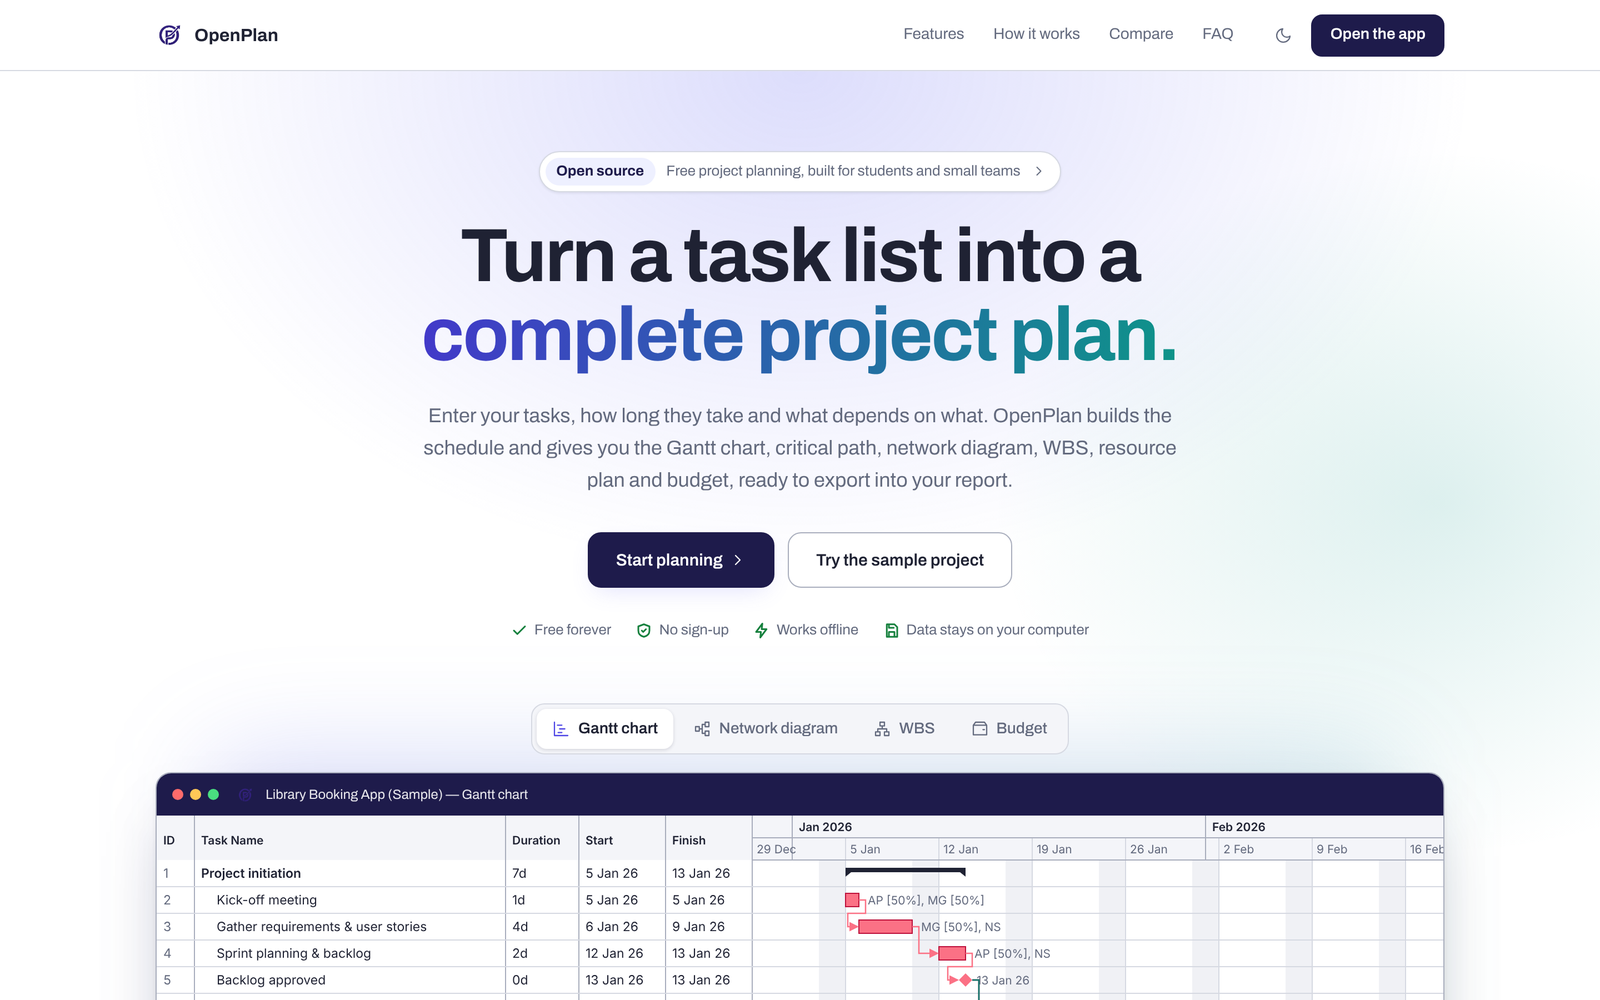
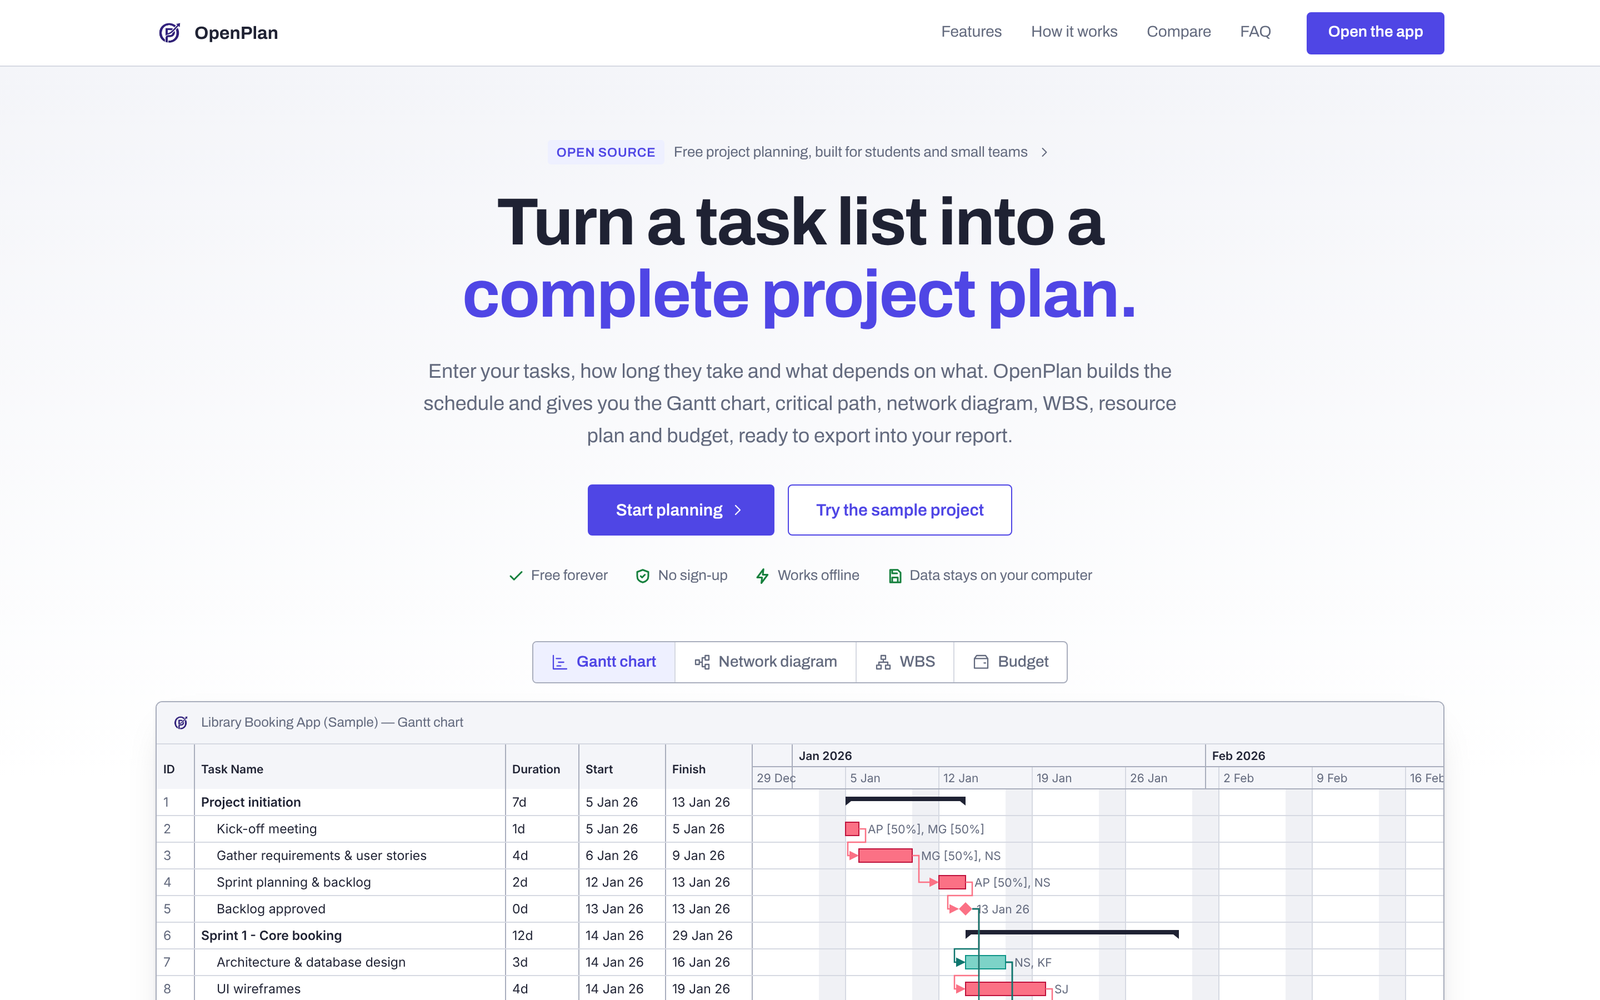
feat: make the landing page a flat, light, professional design
- The landing page is always light. It carries its own copy of the light
  colour tokens, so a saved dark theme no longer reaches it. The theme
  toggle is removed from the landing nav (the app keeps its dark mode).
- Flatter, more corporate style: solid accent buttons with small radii,
  no gradient headline, no glow blobs, no pill badge, no dark title bar
  or dots on the preview window, and no dark call-to-action band.
- Cards hover with a border colour only; FAQ is one bordered list.
- Hide the section links on narrow screens and stack the top label.
- Refresh the README landing screenshot and the social card.

diff --git a/src/styles.css b/src/styles.css
@@ -553,73 +553,121 @@ kbd { font: var(--fs-xs) Consolas, monospace; padding: 0 4px; border: 1px solid 
   .bs-body { padding: 16px; }
 }
 /* ---------- landing page ---------- */
+/* The landing page is always light. It carries its own copy of the light colour tokens, so a dark app theme never reaches it. */
 .qat-btn.home { width: auto; padding: 0 2px; }
 .landing {
-  --lp-w: 1160px; --lp-pad: max(20px, calc((100% - var(--lp-w)) / 2));
-  --lp-r: 14px; --lp-glow: rgba(99, 102, 241, 0.22);
+  --brand: #1e1b4b;
+  --brand-fg: #1e1b4b;
+  --focus: var(--brand-fg);
+  --brand-dark: #13112f;
+  --brand-light: var(--accent-soft);
+  --brand-mid: var(--hover-strong);
+  --on-brand: #ffffff;
+  --title-text: var(--on-brand);
+  --bg: #ffffff;
+  --app: #e7e9ef;
+  --ribbon: #f5f6fa;
+  --surface: #ffffff;
+  --surface-2: #f4f5f9;
+  --surface-3: #e9ebf1;
+  --border: #d6d9e2;
+  --border-strong: #a9aebd;
+  --grid-line: #e0e3ea;
+  --text: #1f2233;
+  --text-muted: #636a7e;
+  --accent: #4f46e5;
+  --accent-hover: #4338ca;
+  --accent-soft: #eef0ff;
+  --accent-text: #ffffff;
+  --hover: #eef0ff;
+  --hover-strong: #dcdffb;
+  --pressed: #c7cbf7;
+  --sel-row: #e8eaff;
+  --bar: #7dd3c8;
+  --bar-edge: #0f9488;
+  --bar-progress: #115e59;
+  --summary: var(--text);
+  --milestone: var(--text);
+  --critical: #fb7185;
+  --critical-edge: #be123c;
+  --critical-soft: #ffe4e8;
+  --link: #0f766e;
+  --baseline: #a3a8b8;
+  --weekend: #f0f1f5;
+  --good: #15803d;
+  --good-soft: #dcfce7;
+  --warn: #b45309;
+  --warn-soft: #fef3c7;
+  --c1: var(--accent);
+  --c2: #0d9488;
+  --c3: #f59e0b;
+  --c4: #e11d48;
+  --shadow: 0 1px 2px rgba(15, 17, 40, 0.08);
+  --shadow-lg: 0 6px 18px rgba(15, 17, 40, 0.22);
+  --tl-0-bg: #e0e3ff; --tl-0-edge: #a5acf5; --tl-0-text: #1e1b4b;
+  --tl-1-bg: #ccf2ec; --tl-1-edge: #7dd3c8; --tl-1-text: #134e4a;
+  --tl-2-bg: #fde6c4; --tl-2-edge: #f5b35a; --tl-2-text: #5a3408;
+  --today: #f0a030;
+  --group-row: #fff2cc;
+  --heat-1: #e8eaff; --heat-2: #c9cdfb; --heat-3: #a5acf5; --heat-over: #ffe0e6; --heat-over-text: #9f1239;
+  --overalloc: #e36c09;
+  --fs-2xs: 10.5px; --fs-xs: 11px; --fs-sm: 11.5px; --fs-base: 12px; --fs-md: 13px; --fs-lg: 14px;
+  --fs-xl: 15px; --fs-2xl: 16px; --fs-3xl: 18px; --fs-4xl: 22px; --fs-5xl: 28px;
+  --row: 24px;
+  --hdr: 40px;
+  --font: "Segoe UI", "Segoe UI Web (West European)", Tahoma, Arial, sans-serif;
+  --lp-w: 1160px; --lp-pad: max(20px, calc((100% - var(--lp-w)) / 2)); --lp-r: 6px;
+  color-scheme: light;
   flex: 1; min-height: 0; overflow-y: auto; background: var(--bg); color: var(--text);
   font: var(--fs-xl)/1.6 "Archivo Variable", "Segoe UI", system-ui, sans-serif; -webkit-font-smoothing: antialiased;
   scroll-behavior: smooth;
 }
-:root[data-theme="dark"] .landing { --lp-glow: rgba(139, 133, 255, 0.2); }
 .landing button { font-family: inherit; }
 .landing h1, .landing h2, .landing h3 { margin: 0; color: var(--text); font-weight: 600; text-wrap: balance; }
-.landing h1, .landing h2 { font-weight: 700; letter-spacing: -0.025em; }
+.landing h1, .landing h2 { font-weight: 700; letter-spacing: -0.02em; }
 .landing .sr { position: absolute; width: 1px; height: 1px; overflow: hidden; clip-path: inset(50%); white-space: nowrap; }
 .lp-label { margin: 0; font-size: var(--fs-md); font-weight: 600; line-height: 1.4; letter-spacing: 0.06em; text-transform: uppercase; color: var(--accent); }
 
 /* navigation */
-.lp-nav { position: sticky; top: 0; z-index: 5; display: flex; align-items: center; gap: 8px; height: 64px; padding: 0 var(--lp-pad); background: color-mix(in srgb, var(--bg) 82%, transparent); backdrop-filter: blur(12px); -webkit-backdrop-filter: blur(12px); border-bottom: 1px solid var(--border); }
+.lp-nav { position: sticky; top: 0; z-index: 5; display: flex; align-items: center; gap: 8px; height: 60px; padding: 0 var(--lp-pad); background: var(--bg); border-bottom: 1px solid var(--border); }
 .lp-brand { display: flex; align-items: center; gap: 9px; font-weight: 700; font-size: var(--fs-2xl); color: var(--text); text-decoration: none; margin-right: auto; }
-.lp-links { display: flex; align-items: center; gap: 2px; margin-right: 8px; }
-.lp-links button { border: 0; background: none; padding: 7px 12px; border-radius: 8px; font-size: var(--fs-lg); color: var(--text-muted); cursor: pointer; transition: color 0.15s, background 0.15s; }
+.lp-links { display: flex; align-items: center; gap: 2px; margin-right: 12px; }
+.lp-links button { border: 0; background: none; padding: 7px 12px; border-radius: 4px; font-size: var(--fs-lg); color: var(--text-muted); cursor: pointer; transition: color 0.15s, background 0.15s; }
 .lp-links button:hover { color: var(--text); background: var(--surface-2); }
-.lp-theme { width: 34px; height: 34px; border: 0; border-radius: 8px; background: none; color: var(--text-muted); cursor: pointer; display: grid; place-items: center; }
-.lp-theme:hover { background: var(--surface-2); color: var(--text); }
 
 /* buttons */
-.lp-btn { display: inline-flex; align-items: center; justify-content: center; gap: 6px; height: 38px; padding: 0 16px; border: 1px solid var(--brand); border-radius: 10px; background: var(--brand); color: var(--on-brand); font-size: var(--fs-lg); font-weight: 600; cursor: pointer; transition: background 0.15s, transform 0.15s, box-shadow 0.15s; }
-.lp-btn:hover { background: var(--brand-dark); }
-:root[data-theme="dark"] .lp-btn { background: var(--accent); border-color: var(--accent); color: var(--accent-text); }
-:root[data-theme="dark"] .lp-btn:hover { background: var(--accent-hover); }
-.lp-btn.lg { height: 50px; padding: 0 24px; font-size: var(--fs-xl); border-radius: 12px; box-shadow: 0 8px 22px -8px var(--lp-glow); }
-.lp-btn.lg:hover { transform: translateY(-1px); }
-.lp-btn.ghost { background: var(--surface); color: var(--text); border-color: var(--border-strong); box-shadow: none; }
-.lp-btn.ghost:hover { background: var(--surface-2); }
-:root[data-theme="dark"] .lp-btn.ghost { background: var(--surface); color: var(--text); border-color: var(--border-strong); }
+.lp-btn { display: inline-flex; align-items: center; justify-content: center; gap: 6px; height: 38px; padding: 0 18px; border: 1px solid var(--accent); border-radius: 4px; background: var(--accent); color: var(--accent-text); font-size: var(--fs-lg); font-weight: 600; cursor: pointer; transition: background 0.15s, border-color 0.15s; }
+.lp-btn:hover { background: var(--accent-hover); border-color: var(--accent-hover); }
+.lp-btn.lg { height: 46px; padding: 0 24px; font-size: var(--fs-xl); }
+.lp-btn.ghost { background: var(--surface); color: var(--accent); border-color: var(--accent); }
+.lp-btn.ghost:hover { background: var(--accent-soft); }
+.lp-btn:focus-visible, .lp-links button:focus-visible, .lp-tabs button:focus-visible, .lp-faq summary:focus-visible { outline: 2px solid var(--accent); outline-offset: 2px; }
 .lp-actions { display: flex; flex-wrap: wrap; align-items: center; gap: 12px; }
 .lp-actions.center { justify-content: center; }
 
 /* hero */
-.lp-hero { position: relative; padding: 72px var(--lp-pad) 0; text-align: center; isolation: isolate;
-  background: radial-gradient(60% 50% at 50% 0%, var(--lp-glow), transparent 70%), radial-gradient(40% 35% at 90% 30%, color-mix(in srgb, var(--c2) 14%, transparent), transparent 70%); }
-.lp-pill { display: inline-flex; align-items: center; gap: 10px; max-width: 100%; padding: 5px 12px 5px 5px; border: 1px solid var(--border); border-radius: 999px; background: var(--surface); font-size: var(--fs-md); color: var(--text-muted); text-decoration: none; box-shadow: var(--shadow); transition: border-color 0.15s; }
-.lp-pill:hover { border-color: var(--accent); }
-.lp-pill span { flex: none; white-space: nowrap; padding: 2px 10px; border-radius: 999px; background: var(--accent-soft); color: var(--accent); font-weight: 700; }
-:root[data-theme="light"] .lp-pill span, :root:not([data-theme]) .lp-pill span { color: var(--brand); }
+.lp-hero { position: relative; padding: 64px var(--lp-pad) 0; text-align: center; background: linear-gradient(180deg, var(--surface-2), var(--bg) 640px); }
+.lp-pill { display: inline-flex; align-items: center; gap: 8px; max-width: 100%; font-size: var(--fs-md); color: var(--text-muted); text-decoration: none; }
+.lp-pill:hover { color: var(--text); }
+.lp-pill span { flex: none; white-space: nowrap; padding: 2px 8px; border-radius: 3px; background: var(--accent-soft); color: var(--accent); font-weight: 600; letter-spacing: 0.04em; text-transform: uppercase; font-size: var(--fs-sm); }
 .lp-pill svg.i { width: 14px; height: 14px; flex: none; }
-.lp-hero h1 { max-width: 900px; margin: 22px auto 0; font-size: clamp(38px, 6vw, 68px); line-height: 1.04; }
-.lp-hero h1 em { font-style: normal; background: linear-gradient(100deg, var(--accent), var(--c2)); -webkit-background-clip: text; background-clip: text; color: transparent; }
-:root[data-theme="light"] .lp-hero h1 em, :root:not([data-theme]) .lp-hero h1 em { background-image: linear-gradient(100deg, #4338ca, #0d9488); }
-.lp-lede { margin: 24px auto 32px; max-width: 680px; font-size: var(--fs-3xl); line-height: 1.6; color: var(--text-muted); }
-.lp-trust { list-style: none; margin: 28px 0 0; padding: 0; display: flex; flex-wrap: wrap; justify-content: center; gap: 8px 22px; font-size: var(--fs-md); color: var(--text-muted); }
+.lp-hero h1 { max-width: 880px; margin: 20px auto 0; font-size: clamp(36px, 5.4vw, 60px); line-height: 1.08; }
+.lp-hero h1 em { font-style: normal; color: var(--accent); }
+.lp-lede { margin: 22px auto 30px; max-width: 680px; font-size: var(--fs-3xl); line-height: 1.6; color: var(--text-muted); }
+.lp-trust { list-style: none; margin: 26px 0 0; padding: 0; display: flex; flex-wrap: wrap; justify-content: center; gap: 8px 24px; font-size: var(--fs-md); color: var(--text-muted); }
 .lp-trust li { display: inline-flex; align-items: center; gap: 6px; }
 .lp-trust svg.i { width: 15px; height: 15px; color: var(--good); stroke-width: 2.4; }
 
-.lp-stage { position: relative; margin-top: 56px; text-align: left; }
-.lp-stage::before { content: ""; position: absolute; inset: 8% 4% -6%; z-index: -1; border-radius: 40px; background: linear-gradient(135deg, var(--lp-glow), color-mix(in srgb, var(--c2) 22%, transparent)); filter: blur(46px); }
+.lp-stage { position: relative; margin-top: 48px; text-align: center; }
 .lp-preview { margin: 0; }
-.lp-tabs { display: inline-flex; flex-wrap: wrap; gap: 4px; padding: 4px; margin-bottom: 16px; border: 1px solid var(--border); border-radius: 12px; background: var(--surface-2); }
-.lp-stage { text-align: center; }
-.lp-tabs button { display: inline-flex; align-items: center; gap: 7px; height: 36px; padding: 0 14px; border: 0; border-radius: 9px; background: none; color: var(--text-muted); font-size: var(--fs-lg); font-weight: 500; cursor: pointer; transition: background 0.15s, color 0.15s; }
-.lp-tabs button:hover { color: var(--text); }
-.lp-tabs button.on { background: var(--surface); color: var(--text); font-weight: 600; box-shadow: 0 1px 3px rgba(15, 17, 40, 0.14); }
+.lp-tabs { display: inline-flex; flex-wrap: wrap; gap: 0; margin-bottom: 16px; border: 1px solid var(--border-strong); border-radius: 4px; background: var(--surface); overflow: hidden; }
+.lp-tabs button { display: inline-flex; align-items: center; gap: 7px; height: 36px; padding: 0 16px; border: 0; border-left: 1px solid var(--border); background: none; color: var(--text-muted); font-size: var(--fs-lg); font-weight: 500; cursor: pointer; transition: background 0.15s, color 0.15s; }
+.lp-tabs button:first-child { border-left: 0; }
+.lp-tabs button:hover { color: var(--text); background: var(--surface-2); }
+.lp-tabs button.on { background: var(--accent-soft); color: var(--accent); font-weight: 600; }
 .lp-tabs button.on svg.i { color: var(--accent); }
-.lp-shot { text-align: left; border: 1px solid var(--border-strong); border-radius: var(--lp-r); overflow: hidden; background: var(--surface); box-shadow: 0 2px 4px rgba(15, 17, 40, 0.06), 0 30px 60px -24px rgba(15, 17, 40, 0.35); }
-.lp-shot-bar { display: flex; align-items: center; gap: 10px; height: 38px; padding: 0 14px; background: var(--brand); color: rgba(255, 255, 255, 0.9); font-size: var(--fs-base); }
-.lp-dots { display: inline-flex; gap: 6px; margin-right: 6px; }
-.lp-dots i { width: 10px; height: 10px; border-radius: 50%; background: rgba(255, 255, 255, 0.28); }
-.lp-dots i:nth-child(1) { background: #ff6b6b; } .lp-dots i:nth-child(2) { background: #ffc857; } .lp-dots i:nth-child(3) { background: #4ade80; }
+.lp-shot { text-align: left; border: 1px solid var(--border-strong); border-radius: var(--lp-r); overflow: hidden; background: var(--surface); box-shadow: 0 1px 3px rgba(20, 22, 40, 0.08), 0 16px 36px -18px rgba(20, 22, 40, 0.25); }
+.lp-shot-bar { display: flex; align-items: center; gap: 10px; height: 38px; padding: 0 14px; background: var(--surface-2); border-bottom: 1px solid var(--border); color: var(--text-muted); font-size: var(--fs-base); }
 .lp-shot-title { overflow: hidden; text-overflow: ellipsis; white-space: nowrap; }
 .lp-shot-body { height: 420px; overflow: hidden; position: relative; display: flex; align-items: center; justify-content: center; padding: 20px; }
 .lp-shot-body.gantt { display: block; padding: 0; }
@@ -628,23 +676,21 @@ kbd { font: var(--fs-xs) Consolas, monospace; padding: 0 4px; border: 1px solid 
 .lp-shot-body:not(.gantt) svg { max-width: 100%; max-height: 100%; width: auto; height: auto; }
 .lp-caption { margin: 14px 0 0; font-size: var(--fs-md); color: var(--text-muted); }
 
-.lp-stats { list-style: none; margin: 56px 0 0; padding: 0; display: grid; grid-template-columns: repeat(4, minmax(0, 1fr)); border: 1px solid var(--border); border-radius: var(--lp-r); background: var(--surface); text-align: center; }
+.lp-stats { list-style: none; margin: 48px 0 0; padding: 0; display: grid; grid-template-columns: repeat(4, minmax(0, 1fr)); border: 1px solid var(--border); border-radius: var(--lp-r); background: var(--surface); text-align: center; }
 .lp-stats li { padding: 22px 12px; }
 .lp-stats li + li { border-left: 1px solid var(--border); }
-.lp-stats b { display: block; font-size: 38px; font-weight: 700; line-height: 1; letter-spacing: -0.02em; color: var(--accent); font-variant-numeric: tabular-nums; }
-:root[data-theme="light"] .lp-stats b, :root:not([data-theme]) .lp-stats b { color: var(--brand); }
+.lp-stats b { display: block; font-size: 36px; font-weight: 700; line-height: 1; letter-spacing: -0.02em; color: var(--accent); font-variant-numeric: tabular-nums; }
 .lp-stats span { display: block; margin-top: 8px; font-size: var(--fs-md); color: var(--text-muted); }
 
 /* sections */
-.lp-block { padding: 104px var(--lp-pad) 0; }
-.lp-head { max-width: 640px; margin: 0 auto 44px; text-align: center; }
-.lp-head h2 { margin: 10px 0 12px; font-size: clamp(28px, 3.4vw, 40px); line-height: 1.1; }
+.lp-block { padding: 96px var(--lp-pad) 0; }
+.lp-head { max-width: 640px; margin: 0 auto 40px; text-align: center; }
+.lp-head h2 { margin: 10px 0 12px; font-size: clamp(26px, 3.2vw, 36px); line-height: 1.15; }
 .lp-head p:last-child { margin: 0; color: var(--text-muted); font-size: var(--fs-3xl); }
 
-.lp-card { padding: 24px; border: 1px solid var(--border); border-radius: var(--lp-r); background: var(--surface); transition: border-color 0.2s, box-shadow 0.2s, transform 0.2s; }
-.lp-card:hover { border-color: color-mix(in srgb, var(--accent) 55%, var(--border)); box-shadow: 0 16px 34px -22px rgba(15, 17, 40, 0.4); transform: translateY(-2px); }
-.lp-chip { display: grid; place-items: center; width: 40px; height: 40px; margin-bottom: 16px; border-radius: 10px; background: var(--accent-soft); color: var(--accent); }
-:root[data-theme="light"] .lp-chip, :root:not([data-theme]) .lp-chip { color: var(--brand); }
+.lp-card { padding: 24px; border: 1px solid var(--border); border-radius: var(--lp-r); background: var(--surface); transition: border-color 0.15s; }
+.lp-card:hover { border-color: var(--accent); }
+.lp-chip { display: grid; place-items: center; width: 40px; height: 40px; margin-bottom: 16px; border-radius: 6px; background: var(--accent-soft); color: var(--accent); }
 .lp-chip svg.i, .lp-steps > li > svg.i { width: 20px; height: 20px; }
 .lp-card h3 { margin-bottom: 6px; font-size: var(--fs-3xl); }
 .lp-card p { margin: 0; color: var(--text-muted); font-size: var(--fs-lg); }
@@ -682,25 +728,19 @@ kbd { font: var(--fs-xs) Consolas, monospace; padding: 0 4px; border: 1px solid 
 .lp-fine { max-width: 860px; margin: 14px auto 0; font-size: var(--fs-md); color: var(--text-muted); text-align: center; }
 
 /* faq */
-.lp-faq { max-width: 760px; margin: 0 auto; }
-.lp-faq details { margin-bottom: 10px; border: 1px solid var(--border); border-radius: 12px; background: var(--surface); transition: border-color 0.15s; }
-.lp-faq details[open] { border-color: color-mix(in srgb, var(--accent) 50%, var(--border)); }
-.lp-faq summary { display: flex; align-items: center; justify-content: space-between; gap: 16px; min-height: 58px; padding: 12px 20px; font-size: var(--fs-xl); font-weight: 600; cursor: pointer; list-style: none; border-radius: 12px; }
+.lp-faq { max-width: 760px; margin: 0 auto; border: 1px solid var(--border); border-radius: var(--lp-r); background: var(--surface); overflow: hidden; }
+.lp-faq details + details { border-top: 1px solid var(--border); }
+.lp-faq summary { display: flex; align-items: center; justify-content: space-between; gap: 16px; min-height: 56px; padding: 12px 20px; font-size: var(--fs-xl); font-weight: 600; cursor: pointer; list-style: none; }
+.lp-faq summary:hover { background: var(--surface-2); }
 .lp-faq summary::-webkit-details-marker { display: none; }
 .lp-faq summary svg.i { flex: none; color: var(--text-muted); transition: transform 0.15s; }
 .lp-faq details[open] summary svg.i { transform: rotate(180deg); }
 .lp-faq details p { margin: 0; padding: 0 20px 18px; color: var(--text-muted); font-size: var(--fs-xl); }
 
 /* closing call to action */
-.lp-end { position: relative; overflow: hidden; margin: 104px var(--lp-pad) 72px; padding: 56px 48px; border-radius: 20px; background: linear-gradient(120deg, var(--brand), #3b34a8 70%, #0f766e); display: flex; flex-wrap: wrap; align-items: center; justify-content: space-between; gap: 24px 40px; }
-.lp-end h2 { font-size: clamp(26px, 3vw, 38px); line-height: 1.1; color: #fff; }
-.lp-end p { margin: 8px 0 0; color: rgba(255, 255, 255, 0.78); font-size: var(--fs-2xl); }
-.lp-end .lp-btn { background: #fff; border-color: #fff; color: var(--brand); box-shadow: none; }
-.lp-end .lp-btn:hover { background: var(--accent-soft); }
-.lp-end .lp-btn.ghost { background: transparent; border-color: rgba(255, 255, 255, 0.5); color: #fff; }
-.lp-end .lp-btn.ghost:hover { background: rgba(255, 255, 255, 0.12); }
-:root[data-theme="dark"] .lp-end .lp-btn { background: #fff; border-color: #fff; color: var(--brand); }
-:root[data-theme="dark"] .lp-end .lp-btn.ghost { background: transparent; border-color: rgba(255, 255, 255, 0.5); color: #fff; }
+.lp-end { margin: 96px var(--lp-pad) 64px; padding: 44px 40px; border: 1px solid var(--border); border-radius: 8px; background: var(--surface-2); display: flex; flex-wrap: wrap; align-items: center; justify-content: space-between; gap: 24px 40px; }
+.lp-end h2 { font-size: clamp(24px, 2.8vw, 32px); line-height: 1.15; }
+.lp-end p { margin: 8px 0 0; color: var(--text-muted); font-size: var(--fs-2xl); }
 
 /* footer */
 .lp-footer { display: flex; flex-wrap: wrap; align-items: center; justify-content: space-between; gap: 16px 32px; padding: 28px var(--lp-pad) 36px; border-top: 1px solid var(--border); font-size: var(--fs-md); color: var(--text-muted); }
@@ -720,10 +760,13 @@ kbd { font: var(--fs-xs) Consolas, monospace; padding: 0 4px; border: 1px solid 
   .lp-stats { grid-template-columns: repeat(2, minmax(0, 1fr)); }
   .lp-stats li:nth-child(3) { border-left: 0; }
   .lp-stats li:nth-child(n+3) { border-top: 1px solid var(--border); }
-  .lp-block { padding-top: 80px; }
+  .lp-block { padding-top: 72px; }
 }
 @media (max-width: 640px) {
-  .lp-links,   .lp-hero { padding-top: 40px; }
+  .lp-links { display: none; }
+  .lp-pill { flex-direction: column; gap: 6px; }
+  .lp-pill svg.i { display: none; }
+  .lp-hero { padding-top: 40px; }
   .lp-lede { font-size: var(--fs-2xl); }
   .lp-actions.center .lp-btn { width: 100%; }
   .lp-shot-body { height: 260px; }
@@ -732,13 +775,12 @@ kbd { font: var(--fs-xs) Consolas, monospace; padding: 0 4px; border: 1px solid 
   .lp-tabs svg.i { display: none; }
   .lp-steps { grid-template-columns: minmax(0, 1fr); }
   .lp-table th, .lp-table td { padding: 12px; }
-  .lp-end { padding: 36px 24px; margin-bottom: 48px; }
+  .lp-end { padding: 32px 24px; margin-bottom: 48px; }
   .lp-footer { flex-direction: column; align-items: flex-start; }
 }
 @media (prefers-reduced-motion: reduce) {
   .landing { scroll-behavior: auto; }
   .lp-card, .lp-btn { transition: none; }
-  .lp-card:hover, .lp-btn.lg:hover { transform: none; }
 }
 
 .crash { max-width: 560px; margin: 80px auto; padding: 0 16px; color: var(--text); }

diff --git a/src/views/Landing.tsx b/src/views/Landing.tsx
@@ -1,7 +1,7 @@
 import { useEffect, useMemo, useState } from 'react';
 import '@fontsource-variable/archivo';
 import OP from '../core';
-import { useApp, S, ask } from '../store';
+import { S, ask } from '../store';
 import Icon from '../components/Icon';
 import type { Schedule } from '../types';
 
@@ -126,7 +126,6 @@ function Preview({ sample }: { sample: ReturnType<typeof useSample> }) {
       </div>
       <div className="lp-shot">
         <div className="lp-shot-bar">
-          <span className="lp-dots" aria-hidden="true"><i /><i /><i /></span>
           <img className="logo" src="./assets/OpenPlan.png" alt="" width={16} height={16} />
           <span className="lp-shot-title">Library Booking App (Sample) — {cur[1]}</span>
         </div>
@@ -155,7 +154,6 @@ function Cell({ v }: { v: boolean | string }) {
 }
 
 export default function Landing() {
-  const st = useApp();
   const sample = useSample();
   useEffect(() => { document.title = PAGE_TITLE; }, []);
   return (
@@ -170,9 +168,6 @@ export default function Landing() {
           <button onClick={() => scrollTo('compare')}>Compare</button>
           <button onClick={() => scrollTo('faq')}>FAQ</button>
         </nav>
-        <button className="lp-theme" aria-label="Toggle dark mode" title="Dark / light" onClick={() => st.setUI({ theme: st.theme === 'dark' ? 'light' : 'dark' })}>
-          <Icon name={st.theme === 'dark' ? 'sun' : 'moon'} />
-        </button>
         <button className="lp-btn" onClick={enterApp}>Open the app</button>
       </header>
 
